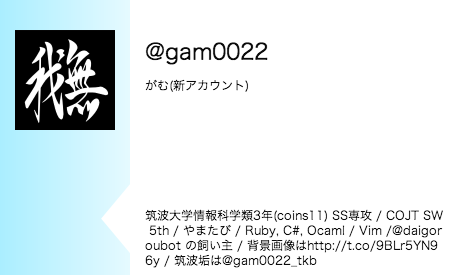
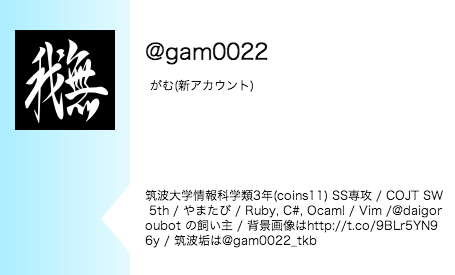
要約機能を実装。

Changed region(s): [[0.3077, 0.6691, 0.9846, 0.9891], [0.3077, 0.2909, 0.5538, 0.3491]]

diff --git a/draw_functions.js b/draw_functions.js
@@ -58,7 +58,7 @@ draw_functions['simple_a'] = function (json) {
 
       context.font = "12px 'MS Gothic'";
 
-      fillMultilineText(context, name, MW - 145 - 20, 145, 90, 15);
+      fillMultilineText(context, name, MW - 145 - 20, 145 + 5, 90, 15);
       fillMultilineText(context, description, 300, 145, 200, 15);
     };
   };
@@ -80,7 +80,7 @@ draw_functions['simple_b'] = function (json) {
     var profile_image = new Image();
     profile_image.src = profile_image_url;
     profile_image.onload = function() {
-      context.drawImage(profile_image, 75, 30, 100, 100);
+      context.drawImage(profile_image, 90, 30, 100, 100);
 
       context.textAlign = "left";
 
@@ -90,8 +90,115 @@ draw_functions['simple_b'] = function (json) {
 
       context.font = "12px 'MS Gothic'";
 
-      fillMultilineText(context, name, MW - 200 - 20, 200, 90, 15);
+      fillMultilineText(context, name, MW - 200 - 20, 200 + 5, 90, 15);
       fillMultilineText(context, description, MW - 60 - 30, 75, 220, 15);
     };
   };
 };
+
+draw_functions['simple_c'] = function (json) {
+
+  var background_image_url = "background_images/simple_c.png";
+  var screen_name = json.screen_name;
+  var profile_image_url = json.profile_image_local_url;
+  var name = json.name;
+  var description = json.description;
+
+  var img = new Image();
+  img.src = background_image_url;
+  img.onload = function() {
+    context.drawImage(img, 0, 0, 455, 275);
+
+    var profile_image = new Image();
+    profile_image.src = profile_image_url;
+    profile_image.onload = function() {
+      context.drawImage(profile_image, 30, 30, 100, 100);
+
+      context.textAlign = "left";
+
+      context.font = "22px 'MS Gothic'";
+      context.fillStyle = "rgb(10,10,10)";
+      context.fillText("@" + screen_name, 150, 60);
+
+      context.font = "12px 'MS Gothic'";
+
+      fillMultilineText(context, name, MW - 150 - 20, 150 + 5, 90, 15);
+      fillMultilineText(context, description, MW - 30 * 2, 30, 220, 15);
+    };
+  };
+};
+
+draw_functions['simple_a_summary'] = function (json) {
+
+  var background_image_url = "background_images/simple_a.png";
+  var screen_name = json.screen_name;
+  var profile_image_url = json.profile_image_local_url;
+  var name = json.name;
+  var description = json.description;
+  var summary = json.summary;
+
+  var img = new Image();
+  img.src = background_image_url;
+  img.onload = function() {
+    context.drawImage(img, 0, 0, 455, 275);
+
+    var profile_image = new Image();
+    profile_image.src = profile_image_url;
+    profile_image.onload = function() {
+      context.drawImage(profile_image, 15, 30, 100, 100);
+
+      context.textAlign = "left";
+
+      context.font = "22px 'MS Gothic'";
+      context.fillStyle = "rgb(10,10,10)";
+      context.fillText("@" + screen_name, 145, 60);
+
+      context.font = "12px 'MS Gothic'";
+
+      fillMultilineText(context, name, MW - 145 - 20, 145 + 5, 90, 15);
+
+      context.fillText("summary:", 145, 120);
+      fillMultilineText(context, summary, 300, 145, 140, 15);
+
+      fillMultilineText(context, description, 300, 145, 210, 15);
+    };
+  };
+};
+
+draw_functions['simple_b_summary'] = function (json) {
+
+  var background_image_url = "background_images/simple_b.png";
+  var screen_name = json.screen_name;
+  var profile_image_url = json.profile_image_local_url;
+  var name = json.name;
+  var description = json.description;
+  var summary = json.summary;
+
+  var img = new Image();
+  img.src = background_image_url;
+  img.onload = function() {
+    context.drawImage(img, 0, 0, 455, 275);
+
+    var profile_image = new Image();
+    profile_image.src = profile_image_url;
+    profile_image.onload = function() {
+      context.drawImage(profile_image, 90, 30, 100, 100);
+
+      context.textAlign = "left";
+
+      context.font = "22px 'MS Gothic'";
+      context.fillStyle = "rgb(10,10,10)";
+      context.fillText("@" + screen_name, 200, 60);
+
+      context.font = "12px 'MS Gothic'";
+
+      fillMultilineText(context, name, MW - 200 - 20, 200 + 5, 90, 15);
+
+      context.fillText("summary:", 75, 160);
+      fillMultilineText(context, summary, MW - 60 - 30, 75, 180, 15);
+
+      fillMultilineText(context, description, MW - 60 - 30, 75, 230, 15);
+    };
+  };
+};
+

diff --git a/summary.rb b/summary.rb
@@ -12,9 +12,9 @@ class Summary
   def learn(text)
     # mecabで形態素解析して、 参照テーブルを作る
     ary = @mecab.parse(text + "EOS").split(" ")
-    @heads.push ({'head' => ary[0]})
-    ary.each_cons(2) do |a| 
-      @data.push h = {'head' => a[0], 'end' => a[1]}
+    @heads.push ({'head' => ary[0], 'middle' => ary[1]})
+    ary.each_cons(3) do |a| 
+      @data.push h = {'head' => a[0], 'middle' => a[1], 'end' => a[2]}
     end
   end
 
@@ -22,18 +22,20 @@ class Summary
     # マルコフ連鎖で要約
     head = @heads.sample
     t1 = head['head']
-    new_text = t1
+    t2 = head['middle']
+    new_text = t1 + t2  
     while true
       _a = Array.new
       @data.each do |hash|
-        _a.push hash if hash['head'] == t1
+        _a.push hash if hash['head'] == t1 && hash['middle'] == t2
       end 
 
       break if _a.size == 0
       num = rand(_a.size) # 乱数で次の文節を決定する
       new_text = new_text + _a[num]['end']
       break if _a[num]['end'] == "EOS"
-      t1 = _a[num]['end']
+      t1 = _a[num]['middle']
+      t2 = _a[num]['end']
     end
 
     # EOSを削除して、結果出力

diff --git a/summary_2.rb b/summary_2.rb
@@ -12,9 +12,9 @@ class Summary
   def learn(text)
     # mecabで形態素解析して、 参照テーブルを作る
     ary = @mecab.parse(text + "EOS").split(" ")
-    @heads.push ({'head' => ary[0], 'middle' => ary[1]})
-    ary.each_cons(3) do |a| 
-      @data.push h = {'head' => a[0], 'middle' => a[1], 'end' => a[2]}
+    @heads.push ({'head' => ary[0]})
+    ary.each_cons(2) do |a| 
+      @data.push h = {'head' => a[0], 'end' => a[1]}
     end
   end
 
@@ -22,20 +22,18 @@ class Summary
     # マルコフ連鎖で要約
     head = @heads.sample
     t1 = head['head']
-    t2 = head['middle']
-    new_text = t1 + t2  
+    new_text = t1
     while true
       _a = Array.new
       @data.each do |hash|
-        _a.push hash if hash['head'] == t1 && hash['middle'] == t2
+        _a.push hash if hash['head'] == t1
       end 
 
       break if _a.size == 0
       num = rand(_a.size) # 乱数で次の文節を決定する
       new_text = new_text + _a[num]['end']
       break if _a[num]['end'] == "EOS"
-      t1 = _a[num]['middle']
-      t2 = _a[num]['end']
+      t1 = _a[num]['end']
     end
 
     # EOSを削除して、結果出力

diff --git a/twitter.rb b/twitter.rb
@@ -11,7 +11,7 @@ require 'MeCab'
 require 'kconv'
 
 
-require_relative 'summary'
+require_relative 'summary_2'
 
 def wget(url, filename)
   open(url) do |source|
@@ -66,7 +66,7 @@ begin
     end
   end
 
-  user     = timeline[0]
+  user     = timeline[0].user
 
   hash = user.to_hash
   hash[:profile_image_local_url] = download_progile_image(user)
